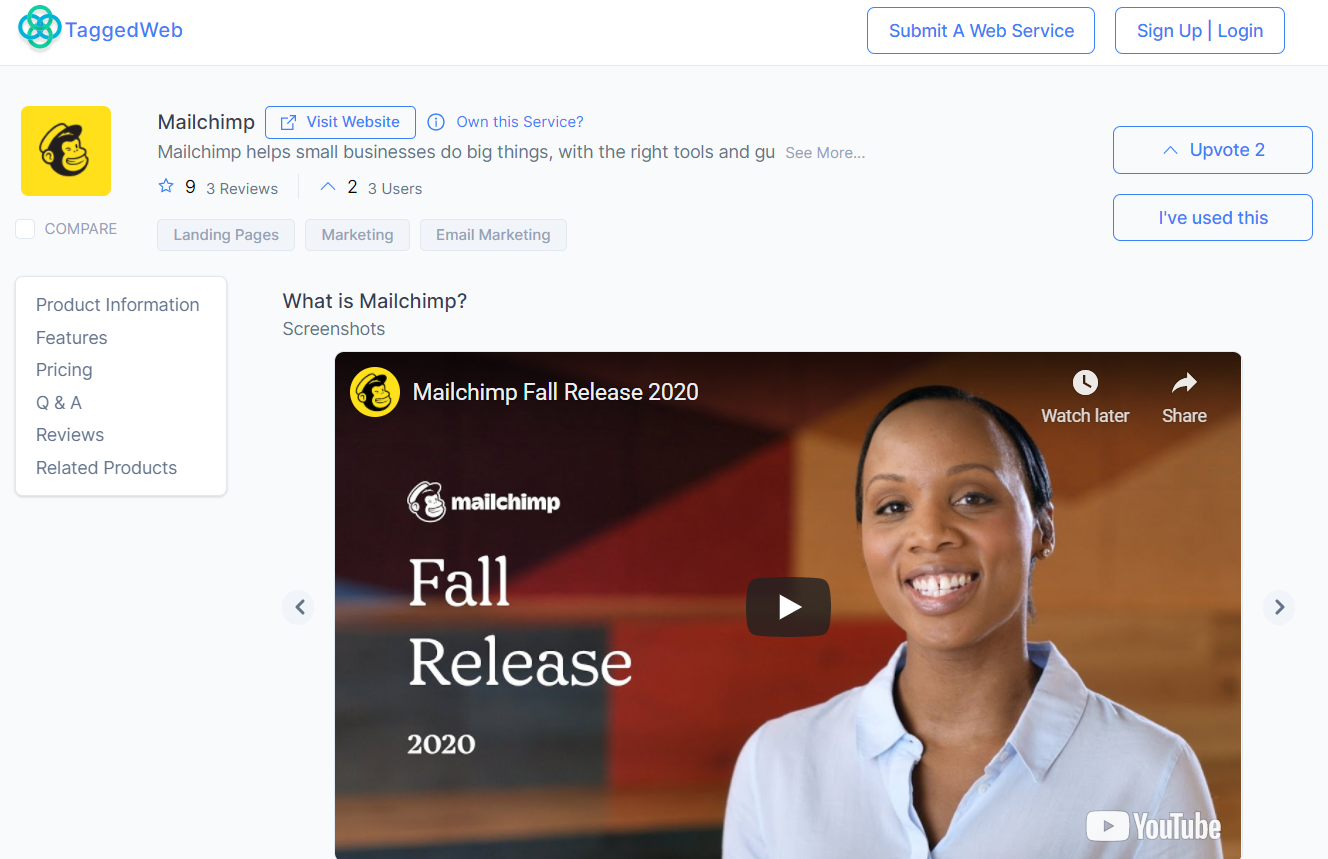
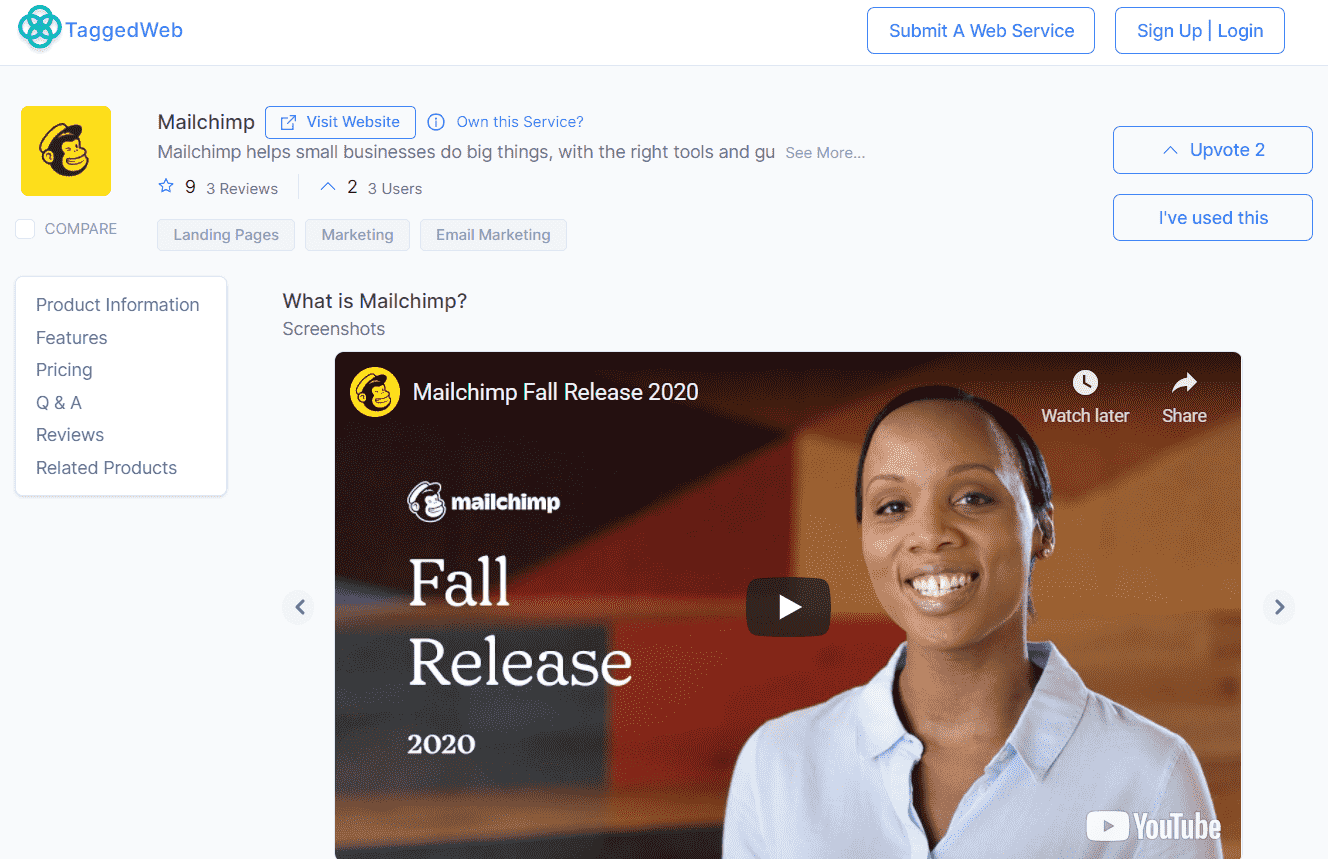
reduce sol_provider.png size and fix linting errors

diff --git a/src/pages/solutions/[search_keywords].tsx b/src/pages/solutions/[search_keywords].tsx
@@ -1,3 +1,4 @@
+/* eslint-disable react-hooks/rules-of-hooks */
 import React, { useState } from 'react'
 import Link from 'next/link'
 import Pagination from '@mui/material/Pagination'
@@ -41,6 +42,7 @@ export default function SolutionList({ solutionData, defaultUrl, keywords }) {
   if (typeof solutionData.results === 'undefined') return null
 
   const [page, setPage] = useState(1)
+  // eslint-disable-next-line @typescript-eslint/no-unused-vars
   const [pageLen, setPageLen] = useState(20)
   const [pageCount, setPageCount] = useState(Math.ceil(solutionData.count / pageLen))
   const [solutionList, setSolutionList] = useState(solutionData.results)
